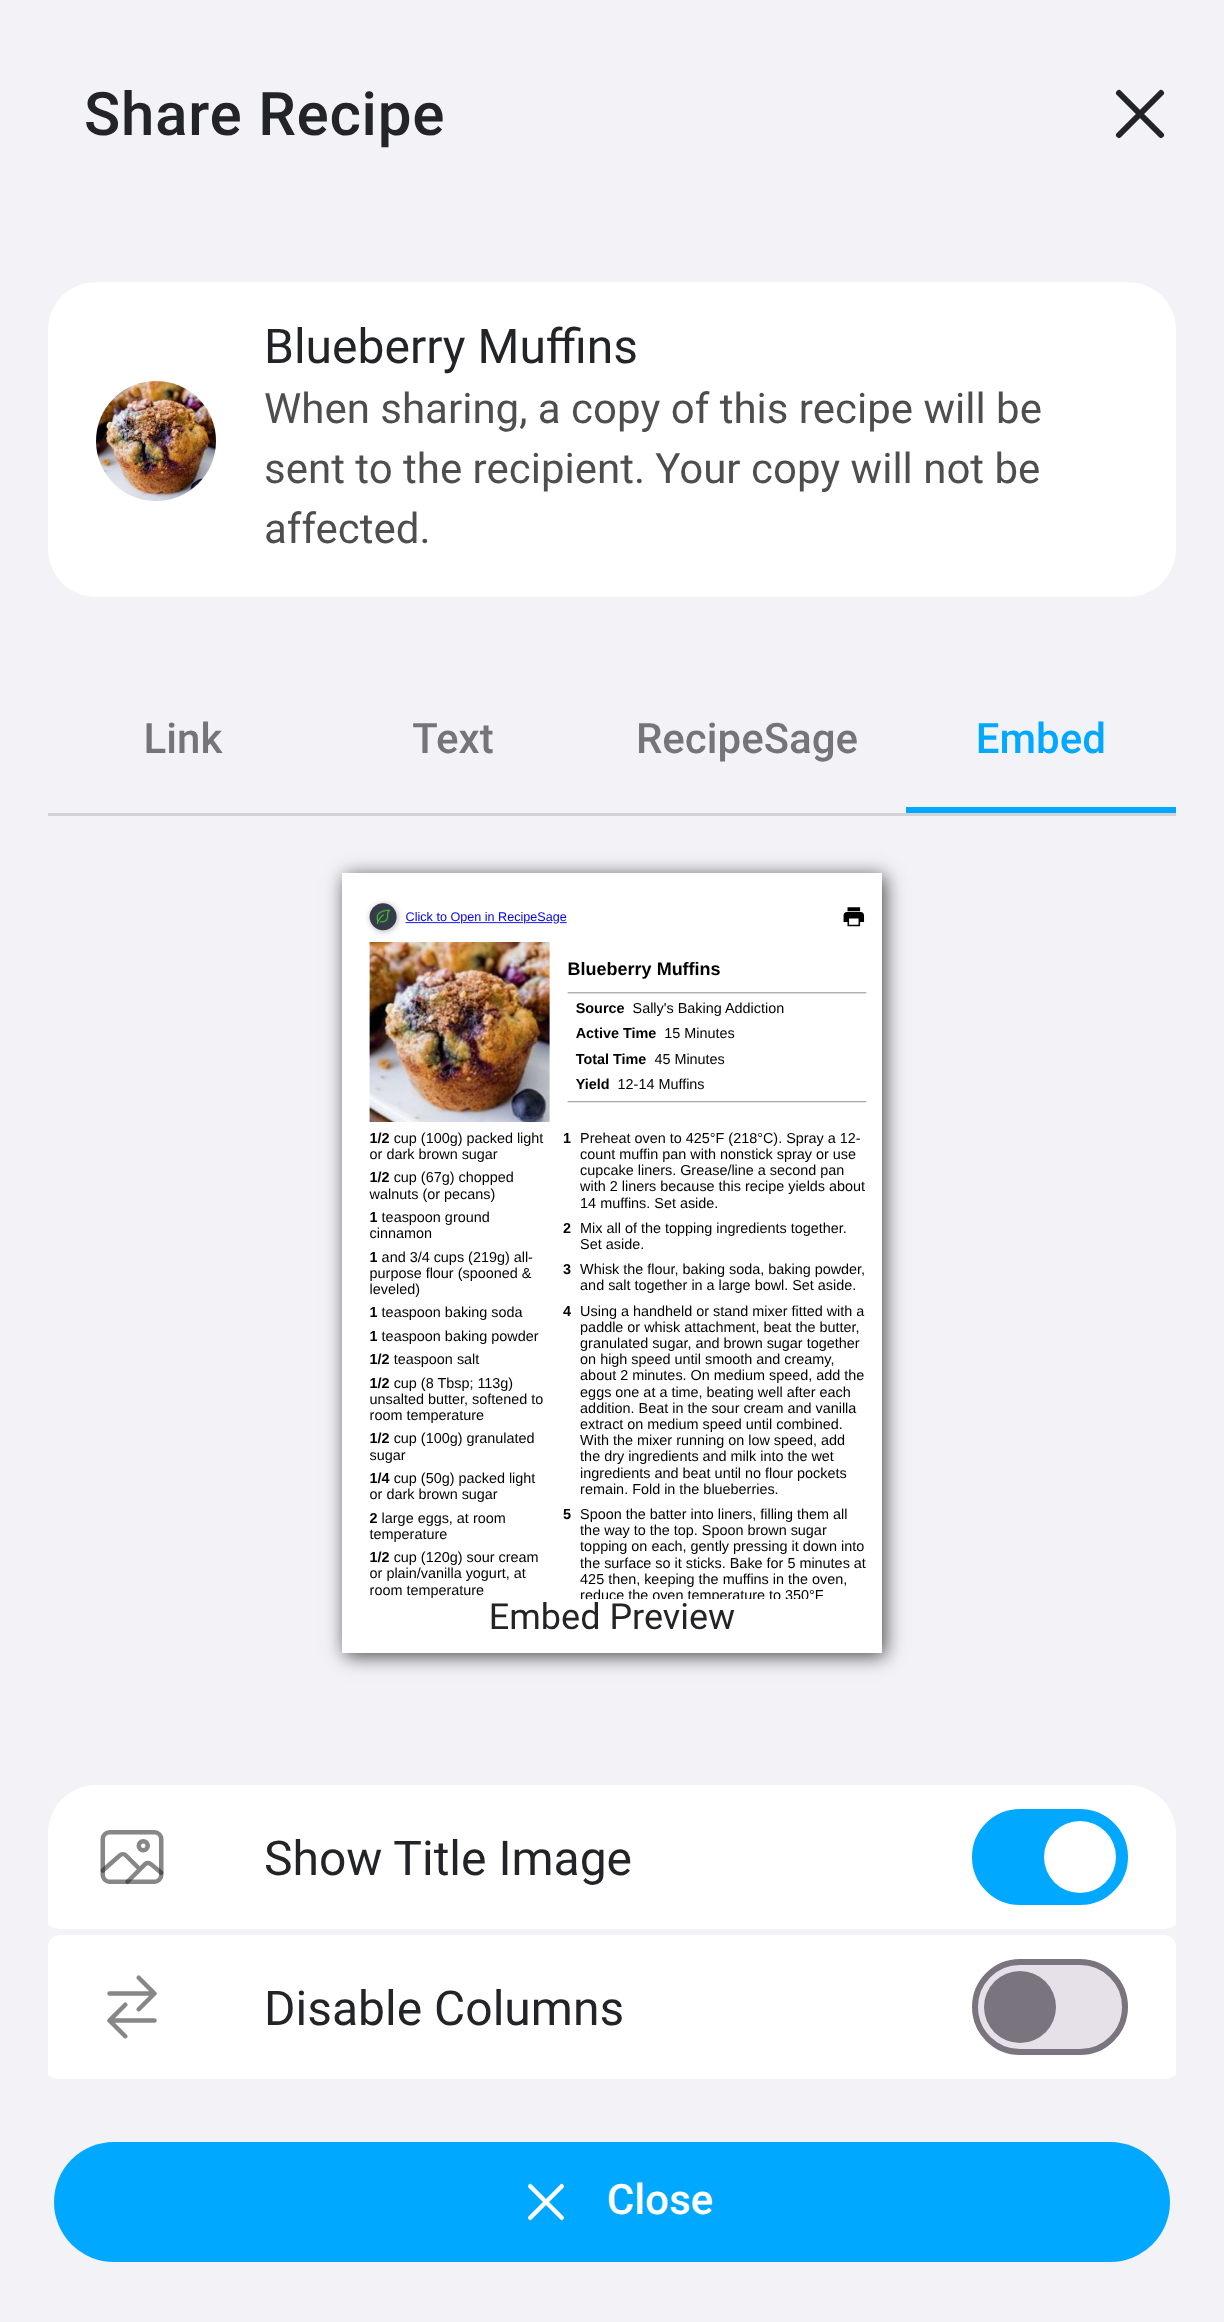
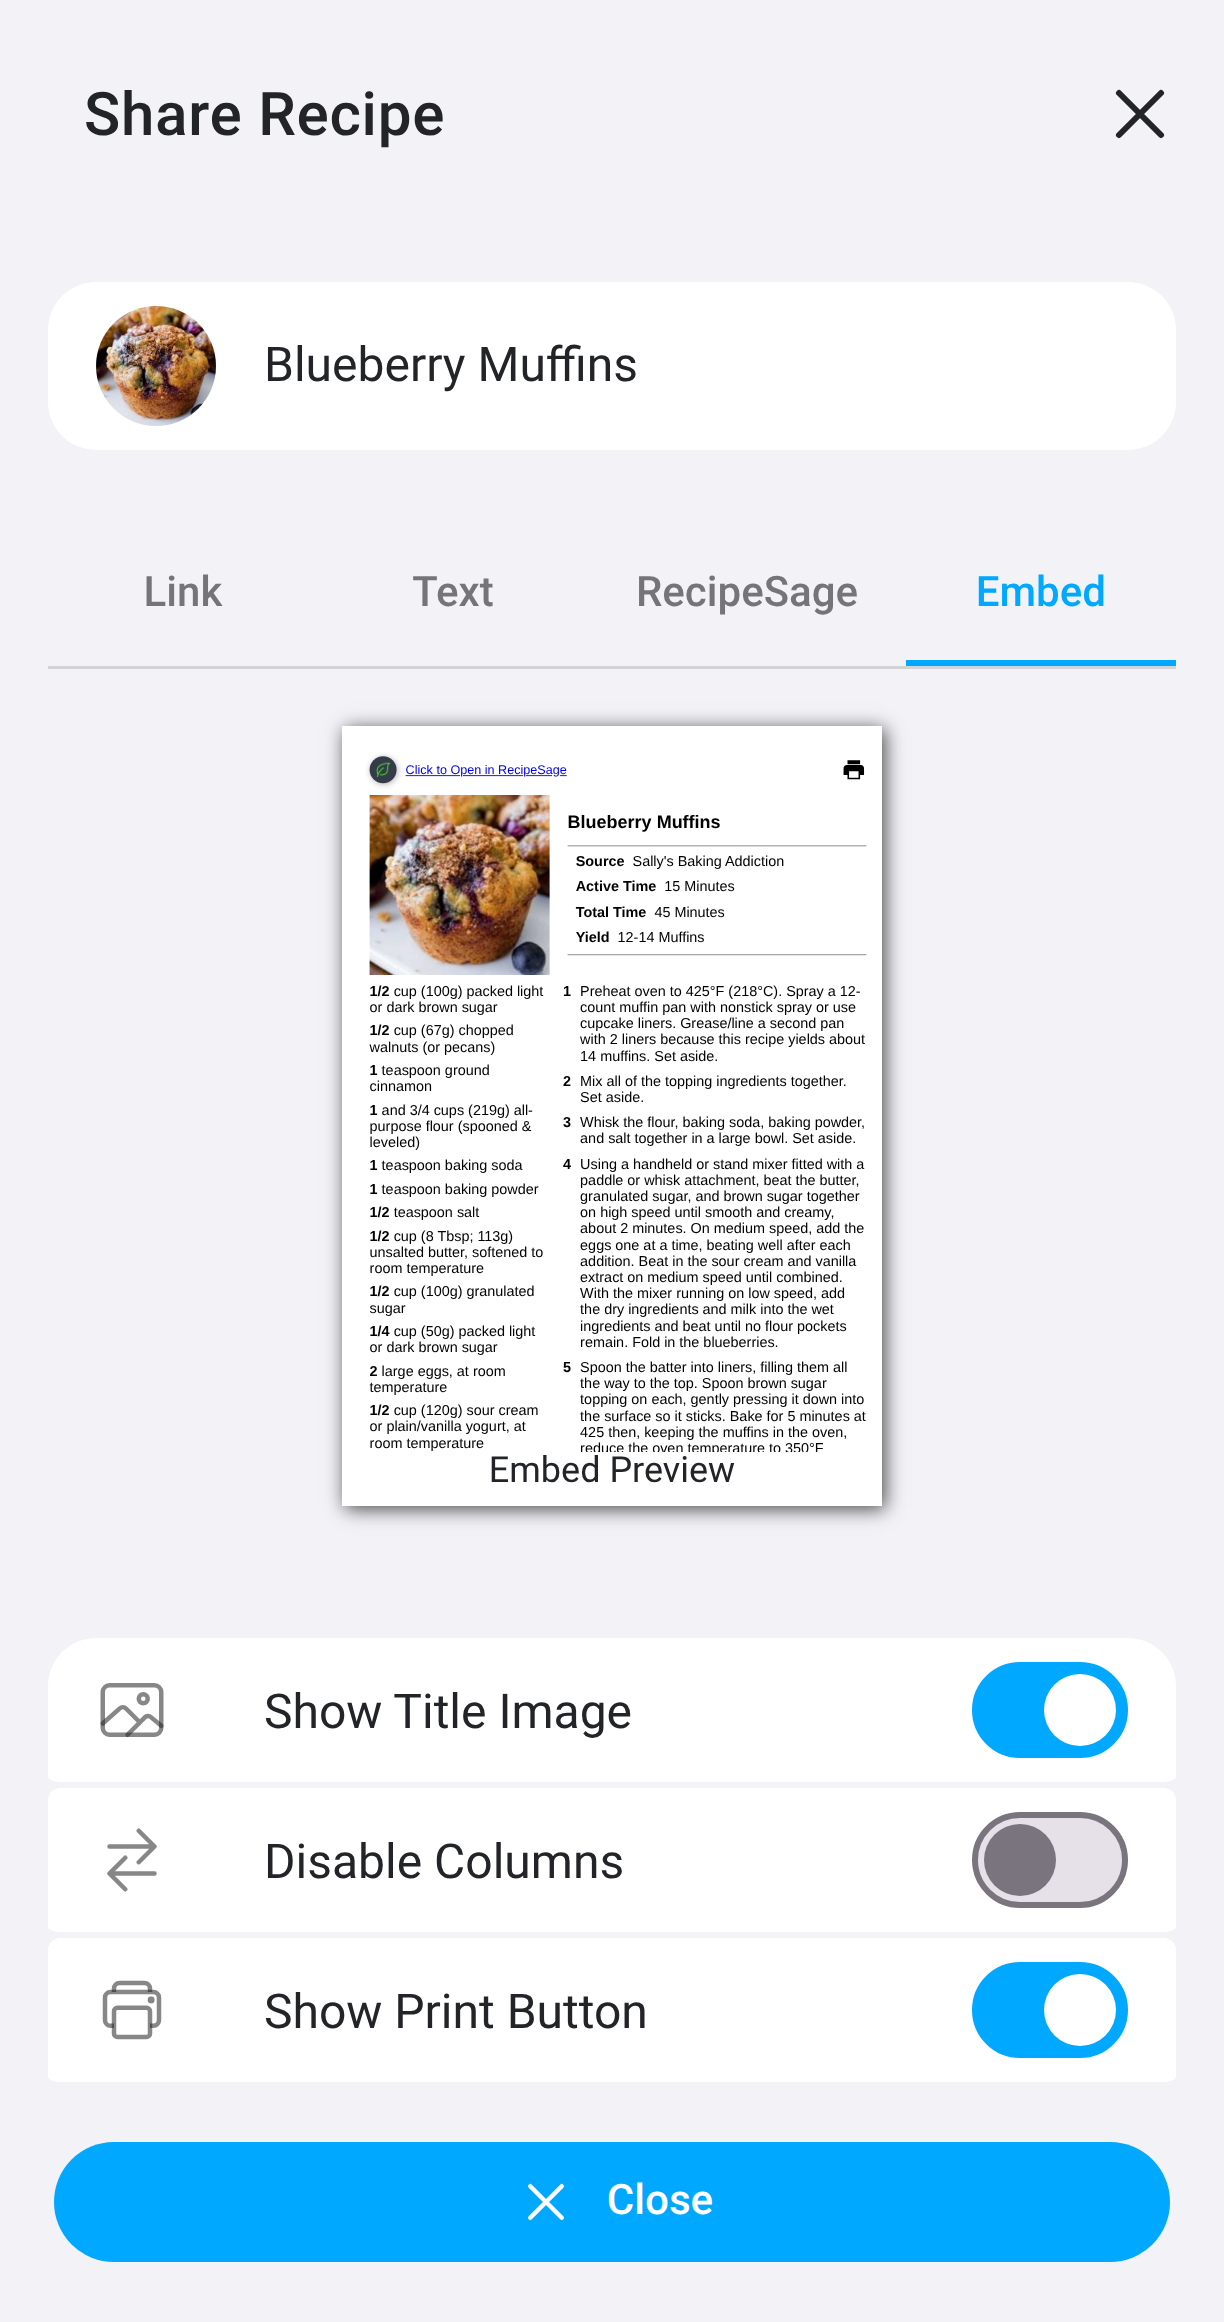
feat: update docs with new features and functionality

diff --git a/docs/tutorials/faq.md b/docs/tutorials/faq.md
@@ -32,7 +32,7 @@ import Head from '@docusaurus/Head';
           "name": "Is RecipeSage compatible with iOS and Android?",
           "acceptedAnswer": {
             "@type": "Answer",
-            "text": "Yes! You can use RecipeSage in the browser on your mobile device, or install it to your device. See the install instructions at https://recipesage.com/app/install"
+            "text": "Yes! You can install the RecipeSage app from the App Store at https://apps.apple.com/app/id6529549272 or from Google Play at https://play.google.com/store/apps/details?id=com.recipesage.app. You can also use RecipeSage in the browser on your mobile device."
           }
         },
         {
@@ -56,7 +56,7 @@ import Head from '@docusaurus/Head';
           "name": "Can I selfhost my own instance of RecipeSage?",
           "acceptedAnswer": {
             "@type": "Answer",
-            "text": "Yes, for personal, private, non-commercial use only. You can find all of the resources to do that at https://github.com/julianpoy/recipesage-selfhost"
+            "text": "Yes, for personal, private, non-commercial use only. See the full license terms at https://github.com/julianpoy/RecipeSage/blob/master/LICENSE.md. You can find all of the resources to do that at https://github.com/julianpoy/recipesage-selfhost"
           }
         },
         {
@@ -129,8 +129,8 @@ Searches will return matches with the exact search text further up in the result
 
 ### Is RecipeSage compatible with IOS and Android?
 
-Yep! You can use RecipeSage in the browser on your mobile device, or install it to your device.
-See our install instructions here: [📱 Download & Install](https://recipesage.com/app/install).
+Yep! You can install the RecipeSage app from the [App Store](https://apps.apple.com/app/id6529549272) or from [Google Play](https://play.google.com/store/apps/details?id=com.recipesage.app).
+You can also use RecipeSage in the browser on your mobile device.
 
 
 ### Is RecipeSage a business?
@@ -150,7 +150,7 @@ Third, RecipeSage is open source which means that in reality RecipeSage won't "s
 
 ### Can I selfhost my own instance of RecipeSage?
 
-Yes, for personal, private, non-commercial use only. You can find all of the resources to do that here:
+Yes, for personal, private, non-commercial use only. See the [full license terms](https://github.com/julianpoy/RecipeSage/blob/master/LICENSE.md). You can find all of the resources to do that here:
 [📱 RecipeSage Self Host Repository](https://github.com/julianpoy/recipesage-selfhost)
 
 

diff --git a/docs/tutorials/tools/cookbook-generator.md b/docs/tutorials/tools/cookbook-generator.md
@@ -18,6 +18,7 @@ If you only need PDFs of individual recipes rather than a bound cookbook, use th
    - **Author** (optional) - shown as "by &lt;author&gt;" on the cover page.
    - **Introduction** (optional) - a free-form block of text printed on its own page after the cover.
    - **Include table of contents** - when enabled, a contents page listing every recipe and its page number is added. The table of contents will take you directly to the relevant page when clicked.
+   - **Include page numbers** - when enabled, page numbers are printed at the bottom of the pages.
    - **Include images** - when enabled (the default), the cover photo for each recipe and any images embedded in the steps are included in the PDF. Turn this off for a smaller, faster-to-generate, text-only cookbook.
    - **Include recipe labels** - when enabled, each recipe's labels are printed below its source URL.
    - **Include last made date** - when enabled, the date you last made each recipe is printed with its source, times, and yield. This is off by default, so the date stays private if you share the cookbook.

diff --git a/docs/tutorials/shopping-lists/usage.md b/docs/tutorials/shopping-lists/usage.md
@@ -39,6 +39,8 @@ When this option is enabled, RecipeSage will combine any items that appear to be
 
 When enabled, you'll see two items such as "1 cup sugar" and "1 tbsp sugar" combined into "1 cup, 1 tablespoon sugar", with an arrow on the right side of the combined item allowing you to view the individual items within if desired.
 
+Preparation notes are shown in a lighter color and are ignored when combining items, so "2 tbsp butter, softened" and "1/4 cup butter" will be combined. RecipeSage looks for notes after a comma or dash, and in parentheses. If a note isn't recognized, try putting it in parentheses, such as "2 carrots (peeled and sliced)".
+
 ### Group Items by Category
 
 To enable this feature, open the options menu in the top right corner of the shopping list and enable the "group items by category" toggle.

diff --git a/docs/tutorials/people/sharing.md b/docs/tutorials/people/sharing.md
@@ -9,7 +9,7 @@ There are many ways to share content in RecipeSage, including recipes, meal plan
 
 ## Sharing Recipes
 
-<img className="screenshot" src="/img/share-recipe-account.png" width="1224" height="2322" alt="Recipe share dialog with RecipeSage, link, and embed options"></img>
+<img className="screenshot" src="/img/share-recipe-account.png" width="1224" height="2322" alt="Recipe share dialog with link, text, RecipeSage, and embed options"></img>
 
 There are three main ways of sharing recipes.
 
